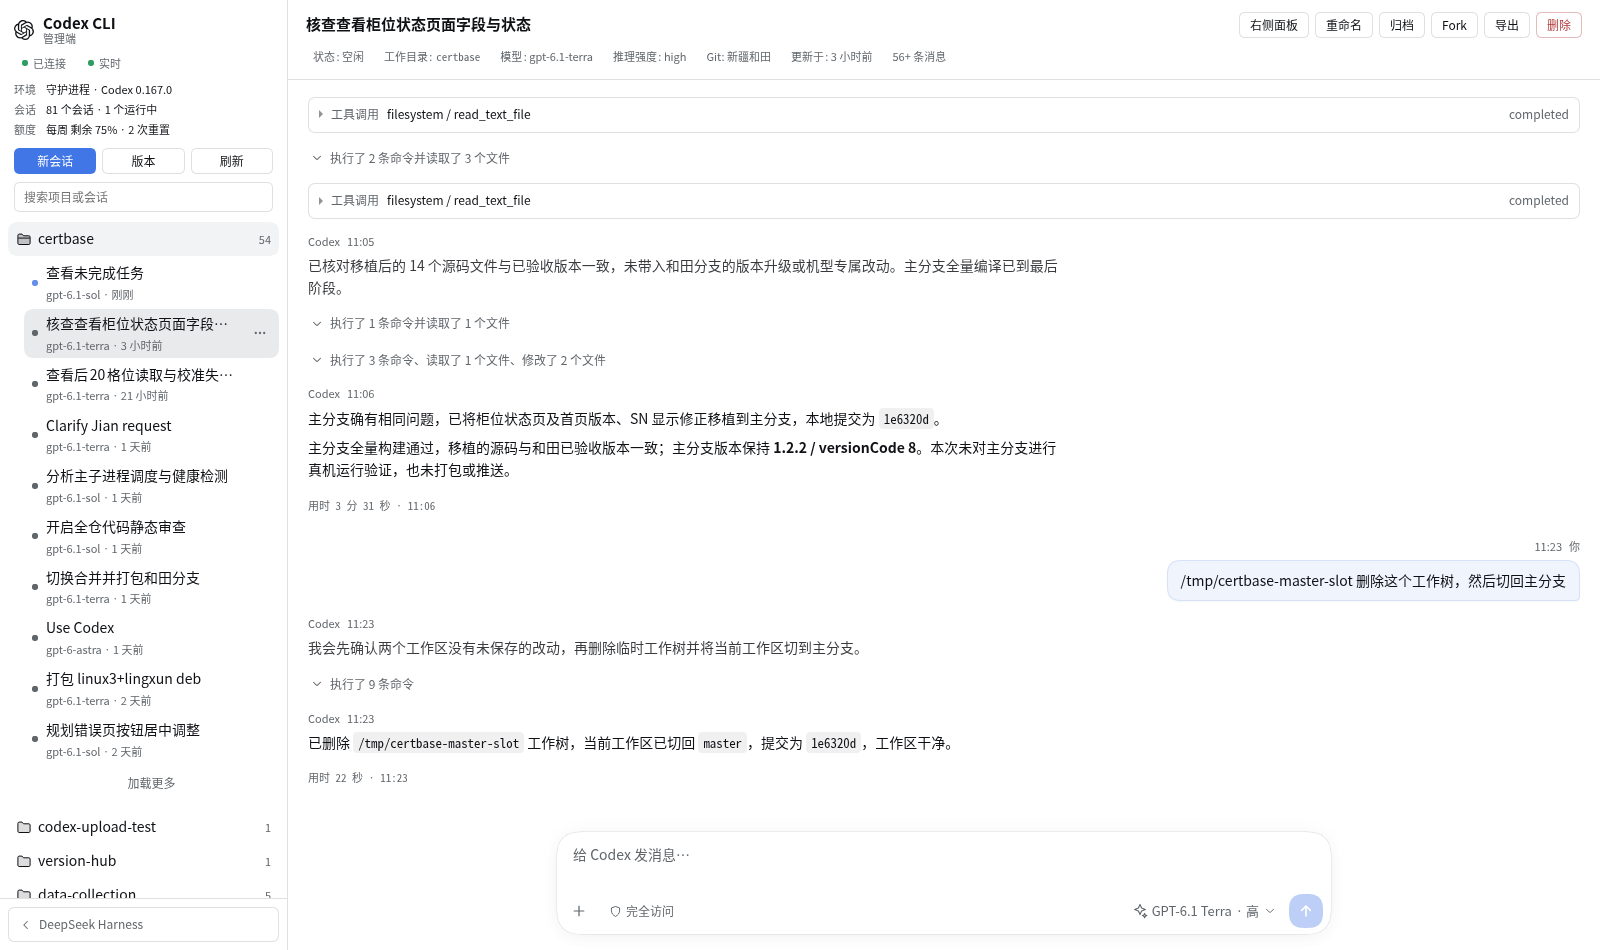
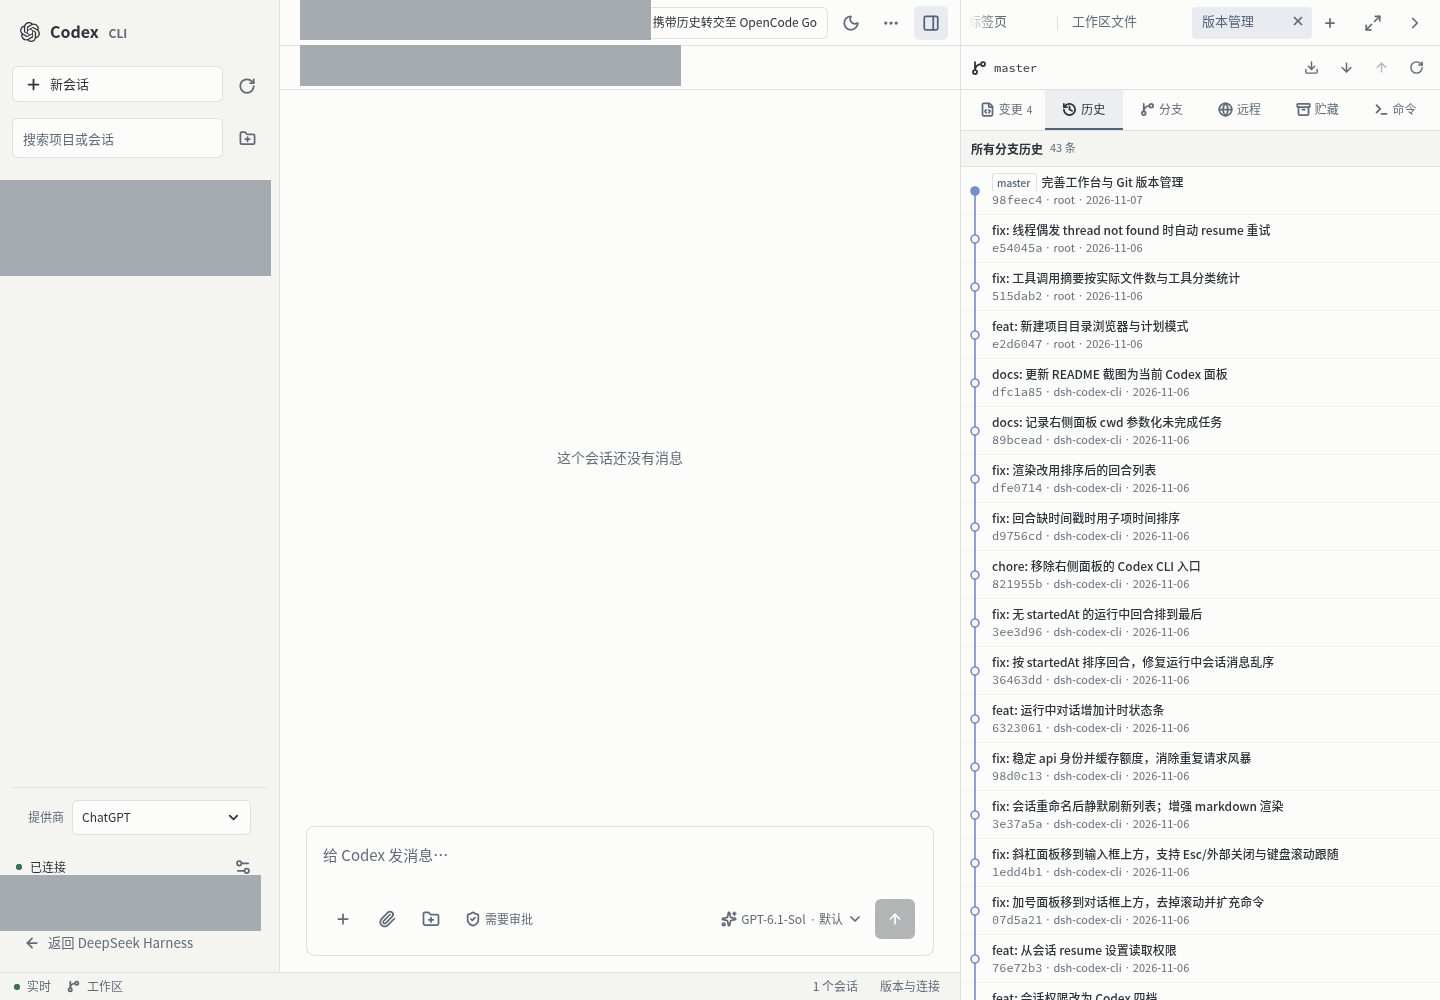
更新 README 界面截图并遮挡个人信息

diff --git a/README.md b/README.md
@@ -34,7 +34,7 @@ npm run build
 dsh plugin --profile web add "$(pwd)"
 ```
 
-仓库公开后上述克隆地址才能使用。若已通过其他方式取得源码，从 `cd` 后的步骤开始即可。这里的 `web` 是 DSH profile 名称；使用其他 profile 时请替换。
+若已通过其他方式取得源码，从 `cd` 后的步骤开始即可。这里的 `web` 是 DSH profile 名称；使用其他 profile 时请替换。
 
 插件包自带 `cordis.patch.yml`，启用 bundle 后会插入 `codex-cli` 配置，无需再添加第二条 insert。首次安装或修改 bundle 后，按 DSH 的提示处理加载或重启；打开 DSH Web 界面，在左侧选择 **Codex CLI**。请先在宿主机确认 `codex --version` 可运行，并完成 Codex 登录或服务配置。
 
@@ -59,7 +59,9 @@ dsh plugin --profile web add "$(pwd)"
 
 工作区单文件上传上限为 25 MiB；下载针对单个文件，不提供目录打包下载。文件预览能力取决于文件类型。Git 写操作、终端命令和 Codex 操作会影响宿主机文件，请根据实际需要选择会话权限。
 
-![新建项目](shots/83-new-project.png)
+技能列表与工作区文件（截图中的个人信息已遮挡）：
+
+![技能列表与工作区文件](shots/83-new-project.png)
 
 ## 开发与验证
 
